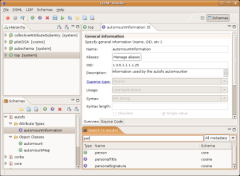
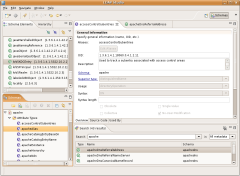
Updated LDAP Studio default window size and LDAP Studio Schemas Editor Plugin screenshot.
git-svn-id: https://svn.apache.org/repos/asf/directory/ldapstudio/trunk@524074 13f79535-47bb-0310-9956-ffa450edef68

diff --git a/ldapstudio-rcp/src/main/java/org/apache/directory/ldapstudio/ApplicationWorkbenchWindowAdvisor.java b/ldapstudio-rcp/src/main/java/org/apache/directory/ldapstudio/ApplicationWorkbenchWindowAdvisor.java
@@ -90,7 +90,7 @@ public class ApplicationWorkbenchWindowAdvisor extends WorkbenchWindowAdvisor
     public void preWindowOpen()
     {
         IWorkbenchWindowConfigurer configurer = getWindowConfigurer();
-        configurer.setInitialSize( new Point( 900, 600 ) );
+        configurer.setInitialSize( new Point( 1000, 660 ) );
         configurer.setShowCoolBar( true );
         configurer.setShowStatusLine( false );
         configurer.setShowPerspectiveBar( true );
